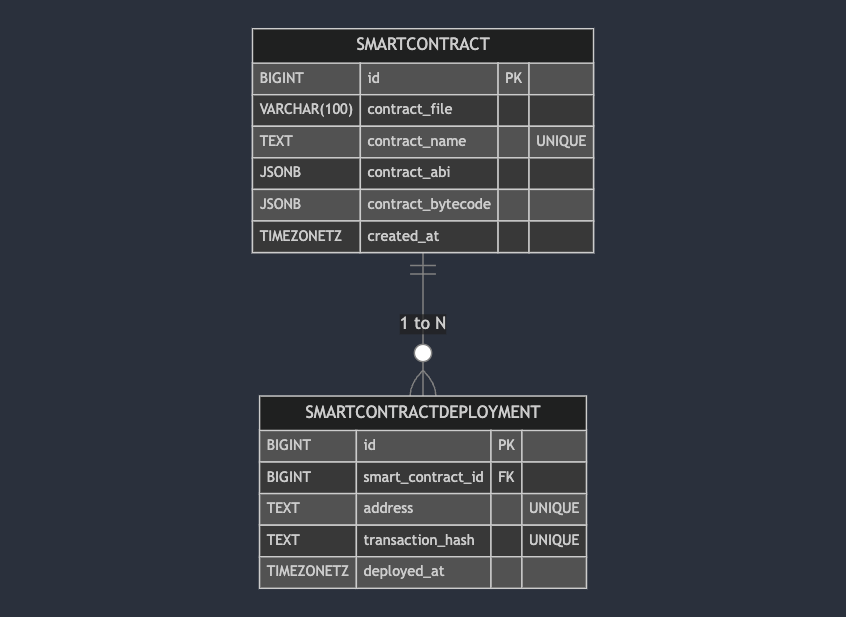
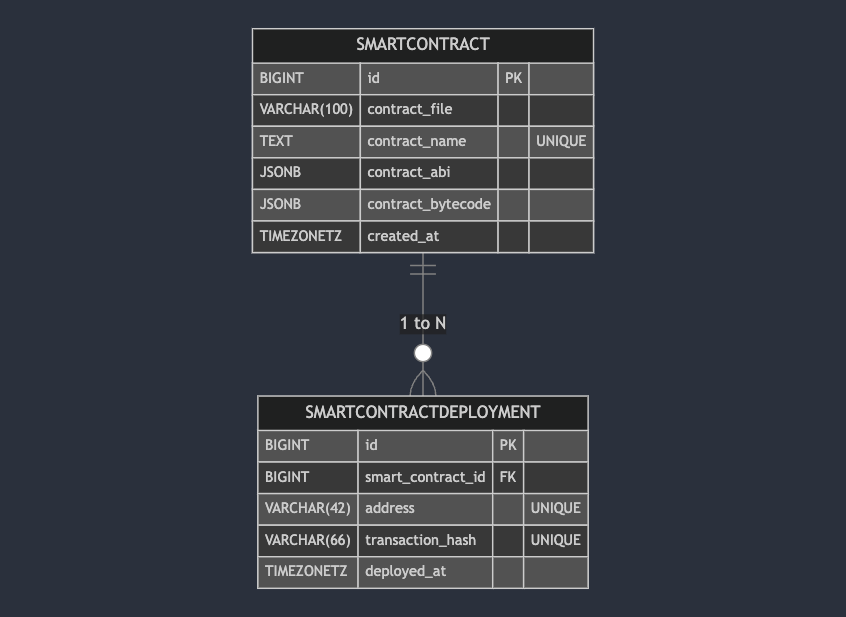
Update readme

Changed region(s): [[0.2766, 0.6467, 0.7069, 0.9546]]

diff --git a/README.md b/README.md
@@ -7,7 +7,7 @@
 
 ### Database Schema
 ![Database Schema](database_schema.png)
-```mermaid
+<!-- ```mermaid
 erDiagram
     SMARTCONTRACT {
         BIGINT id PK
@@ -21,13 +21,13 @@ erDiagram
     SMARTCONTRACTDEPLOYMENT {
         BIGINT id PK
         BIGINT smart_contract_id FK
-        TEXT address "UNIQUE"
-        TEXT transaction_hash "UNIQUE"
+        VARCHAR(42) address "UNIQUE"
+        VARCHAR(66) transaction_hash "UNIQUE"
         TIMEZONETZ deployed_at
     }
 
     SMARTCONTRACT ||--o{ SMARTCONTRACTDEPLOYMENT : "1 to N"
-```
+``` -->
 ### How to start the services
 1. `docker-compose build --no-cahce`
 2. `docker-compose up`
